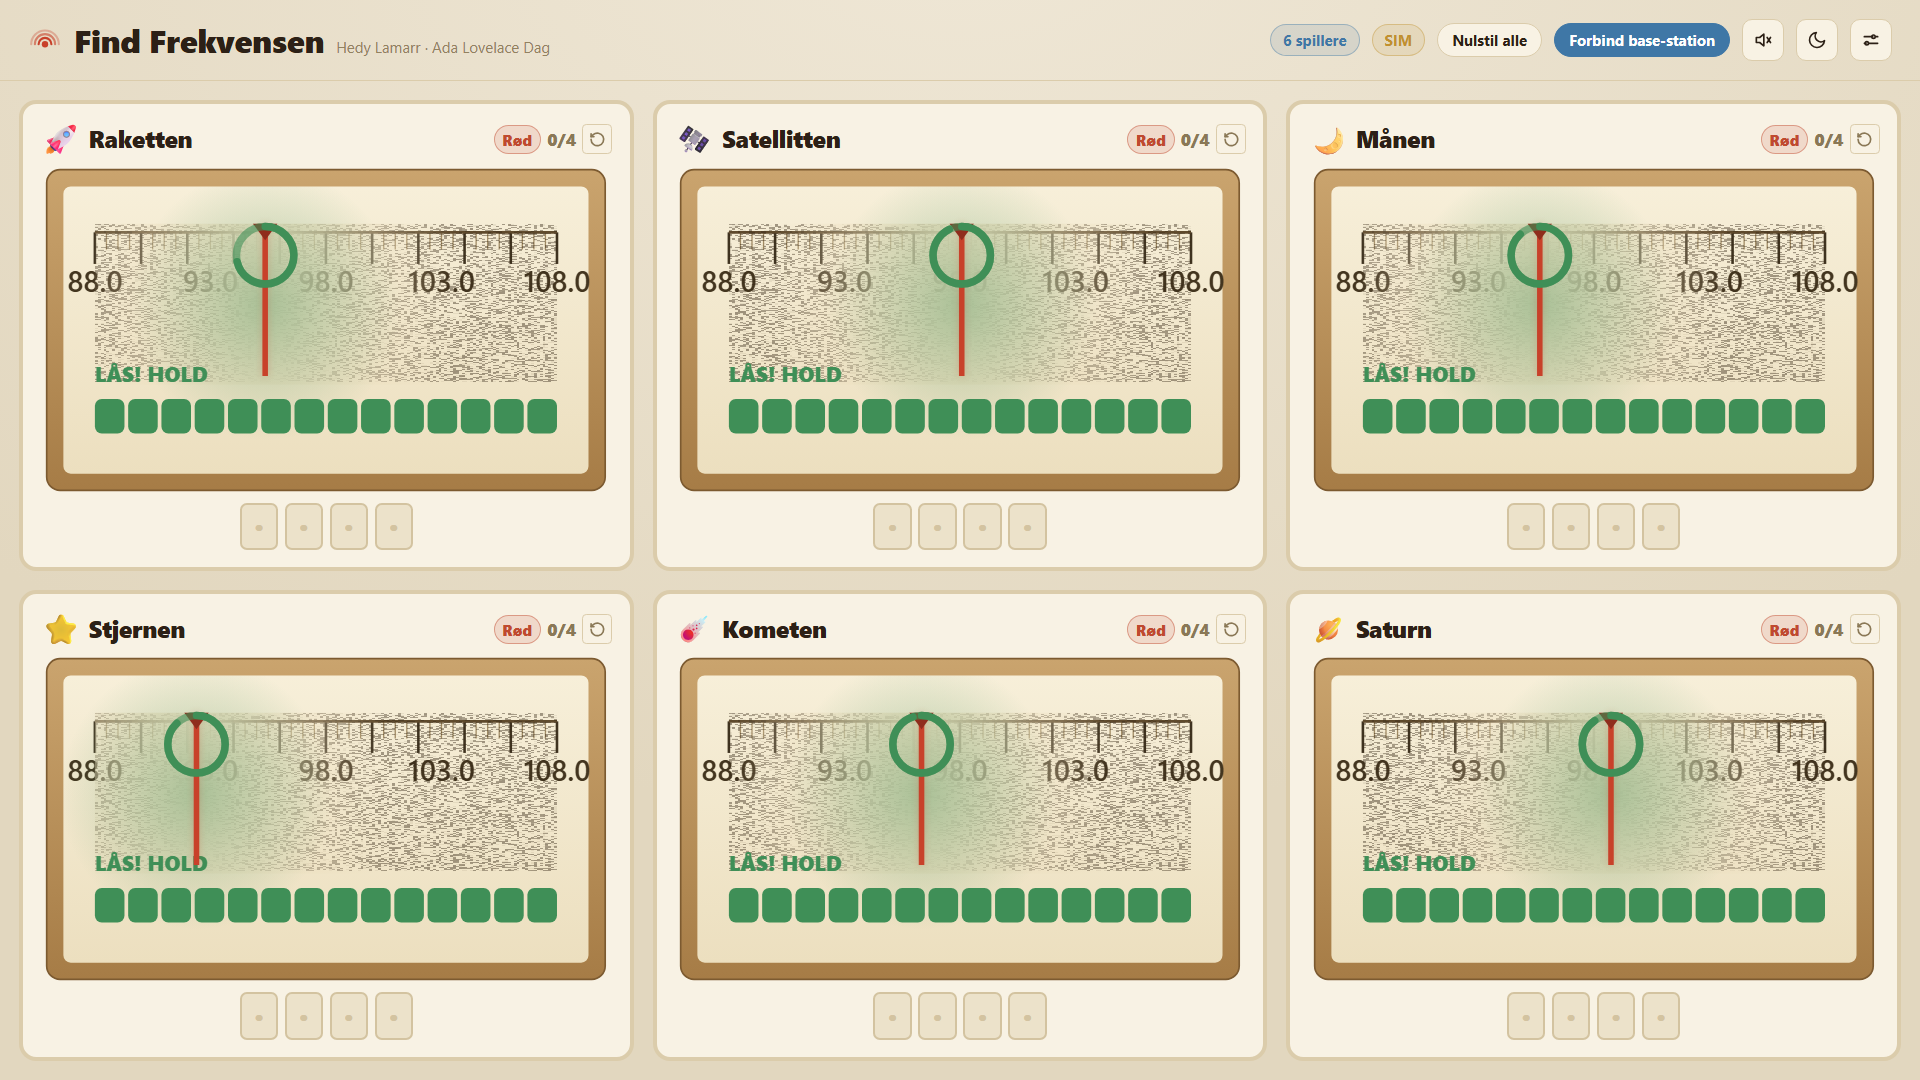
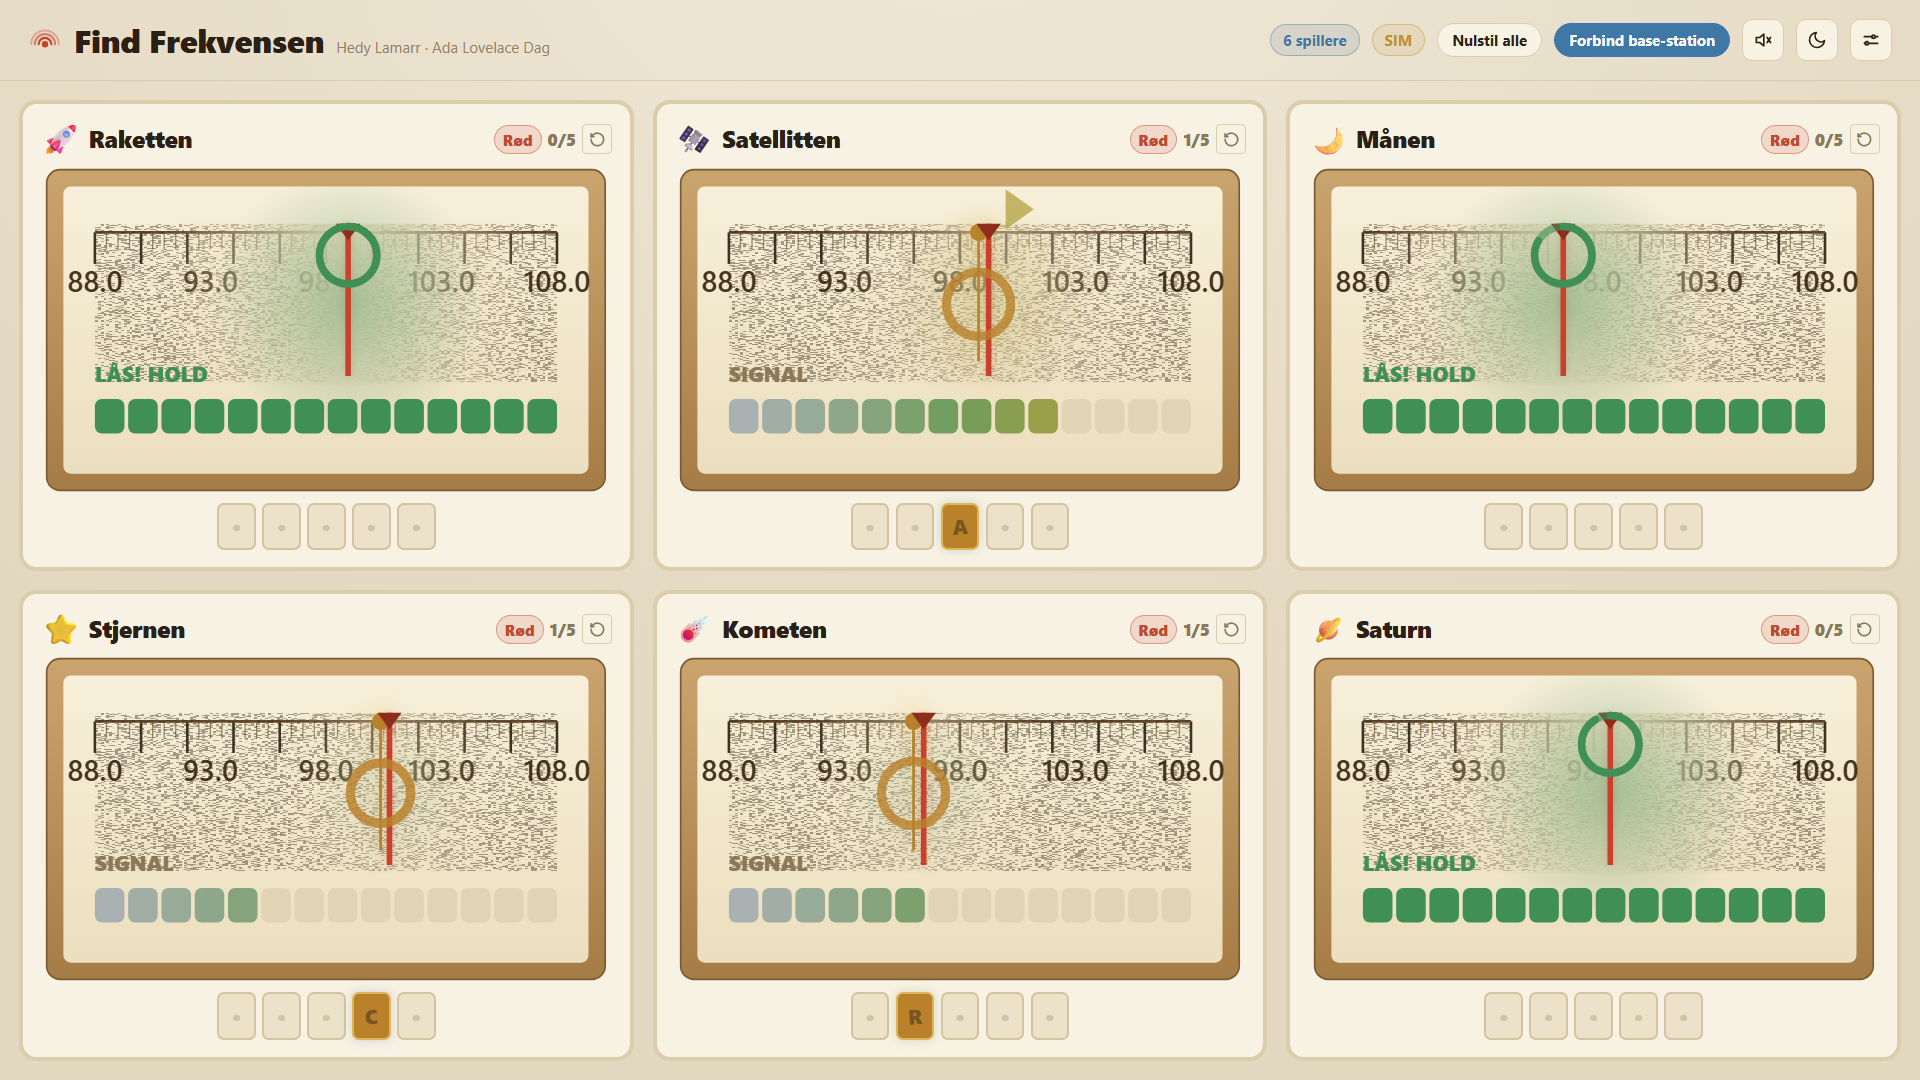
Retune levels: faster moving signal, per-level hint, 3/4/5 ladder
Operator feedback: the moving signal was slow enough to catch while standing
still, and the ladder needed restructuring.

- Ladder: green = 3 letters (ADA), stationary, with arrow. Yellow = 4 letters
  (HEDY), MOVING, with the full directional arrow. Red = 5 letters (GRACE),
  MOVING faster, only a faint late hint.
- Speed/window tuned so a still needle can't catch a moving signal (dwell =
  width/speed < lockMs): yellow 110u/s width 58 (dwell ~0.53 < 0.65), red 135u/s
  width 50 (dwell ~0.37 < 0.62). You must follow it now.
- Per-level directional hint via preset.hintFrom (warmth threshold to show the
  arrow): green/yellow 0.45 (full), red 0.8 (only when nearly on it). Exposed in
  the debug advanced tuning.
- Config version bumped to 3 so saved levels adopt the new defaults.

Verified: ladder 3/4/5; green stationary capture works; yellow shows arrow at
warmth 0.7, red doesn't; standing still on red for 10s captured nothing
(max lock progress 0.23).

diff --git a/src/game/presets.ts b/src/game/presets.ts
@@ -14,6 +14,7 @@ import type { DifficultyPreset, GameConfig } from "./types";
 import { DEFAULT_THEME_ID } from "./themes";
 
 export const PRESETS: Record<string, DifficultyPreset> = {
+  // Stationary, 3 letters (Ada Lovelace). Easy first success.
   green: {
     id: "green",
     label: "Grøn",
@@ -27,42 +28,50 @@ export const PRESETS: Record<string, DifficultyPreset> = {
     move: false,
     moveSpeed: 0,
     moveRange: 0,
+    hintFrom: 0.45, // arrow helps you find the (stationary) signal
     messageMode: "word",
     message: "ADA",
     pictureId: "radio",
   },
+  // Moving, 4 letters (Hedy Lamarr), WITH the directional arrow. The window is
+  // narrow and the signal fast enough that a still needle can't catch it — you
+  // have to follow it (dwell 58/110 ≈ 0.53s < lockMs 0.65s).
   yellow: {
     id: "yellow",
     label: "Gul",
     stationCount: 4,
     width: 58,
-    widthJitter: 0.18,
+    widthJitter: 0.16,
     spread: 0.85,
     decoys: 0,
-    warmRange: 150,
-    lockMs: 700,
-    move: false,
-    moveSpeed: 0,
-    moveRange: 0,
+    warmRange: 175,
+    lockMs: 650,
+    move: true,
+    moveSpeed: 110,
+    moveRange: 200,
+    hintFrom: 0.45, // full directional hint
     messageMode: "word",
     message: "HEDY",
     pictureId: "satellite",
   },
+  // Moving, 5 letters (Grace Hopper), only a faint hint when very close.
+  // Faster, narrower, wanders further (dwell 50/135 ≈ 0.37s < lockMs 0.62s).
   red: {
     id: "red",
     label: "Rød",
-    stationCount: 4,
-    width: 64,
-    widthJitter: 0.15,
-    spread: 0.9,
+    stationCount: 5,
+    width: 50,
+    widthJitter: 0.14,
+    spread: 0.92,
     decoys: 0,
-    warmRange: 150,
-    lockMs: 700,
-    move: true, // the signal slides back and forth — you must follow it
-    moveSpeed: 70,
-    moveRange: 220,
+    warmRange: 155,
+    lockMs: 620,
+    move: true,
+    moveSpeed: 135,
+    moveRange: 260,
+    hintFrom: 0.8, // only nudges direction when you're nearly on it
     messageMode: "word",
-    message: "HEDY",
+    message: "GRACE",
     pictureId: "rocket",
   },
 };

diff --git a/src/components/DebugPanel.tsx b/src/components/DebugPanel.tsx
@@ -215,8 +215,9 @@ function DebugPanelBody() {
           <NumberRow palette={palette} label="Vindue (bredde)" value={editLevel.width} min={20} max={160} onChange={(v) => { patch({ width: v }); regen(); }} />
           <NumberRow palette={palette} label="Varme-rækkevidde" value={editLevel.warmRange} min={60} max={300} onChange={(v) => { patch({ warmRange: v }); regen(); }} />
           <NumberRow palette={palette} label="Lås-tid (ms)" value={editLevel.lockMs} min={300} max={1500} step={50} onChange={(v) => patch({ lockMs: v })} />
-          <NumberRow palette={palette} label="Signal-fart" value={editLevel.moveSpeed} min={0} max={200} step={5} onChange={(v) => patch({ moveSpeed: v })} />
+          <NumberRow palette={palette} label="Signal-fart" value={editLevel.moveSpeed} min={0} max={250} step={5} onChange={(v) => patch({ moveSpeed: v })} />
           <NumberRow palette={palette} label="Signal-vandring" value={editLevel.moveRange} min={40} max={400} step={10} onChange={(v) => patch({ moveRange: v })} />
+          <NumberRow palette={palette} label="Retningspil (0=altid, 1=aldrig)" value={editLevel.hintFrom} min={0} max={1} step={0.05} onChange={(v) => patch({ hintFrom: v })} />
           <NumberRow palette={palette} label="Narre-toppe" value={editLevel.decoys} min={0} max={5} onChange={(v) => { patch({ decoys: v }); regen(); }} />
         </details>
 

diff --git a/src/game/engine.ts b/src/game/engine.ts
@@ -395,9 +395,12 @@ export class GameEngine {
     p.displayWarmth = lockable ? 1 : Math.min(warmth, 0.72);
     p.lockable = lockable;
     // A directional nudge once you're warm but not yet on it (helps you chase a
-    // moving signal and tells you which way to go).
+    // moving signal). The threshold is per-level: full on green/yellow, only a
+    // faint late nudge on red (preset.hintFrom).
     p.directionHint =
-      nearest && !lockable && stationWarmth > 0.45 ? Math.sign(nearest.position - p.needlePos) : 0;
+      nearest && !lockable && stationWarmth > preset.hintFrom
+        ? Math.sign(nearest.position - p.needlePos)
+        : 0;
 
     // Lock: needle held inside a real station's window for lockMs continuous.
     if (lockable && nearest) {

diff --git a/src/game/types.ts b/src/game/types.ts
@@ -89,6 +89,11 @@ export interface DifficultyPreset {
   moveSpeed: number;
   /** How far a station wanders either side of its home position. */
   moveRange: number;
+  /**
+   * Warmth above which the directional arrow appears (0 = always when warm,
+   * ≥1 = never). Higher = "less of a hint" (red only nudges when very close).
+   */
+  hintFrom: number;
   messageMode: MessageMode;
   /** Word to spell out (word mode); one letter per station. */
   message: string;

diff --git a/src/lib/useAppRuntime.ts b/src/lib/useAppRuntime.ts
@@ -13,7 +13,7 @@ import type { DifficultyPreset, GameConfig } from "@/game/types";
 const NUDGE_STEP = 25;
 const CONFIG_KEY = "frekvens-config";
 // Bump when the level/preset schema changes so saved levels reset to new defaults.
-const CONFIG_VERSION = 2;
+const CONFIG_VERSION = 3;
 
 function applyTheme(mode: ThemeMode) {
   if (typeof document === "undefined") return;
